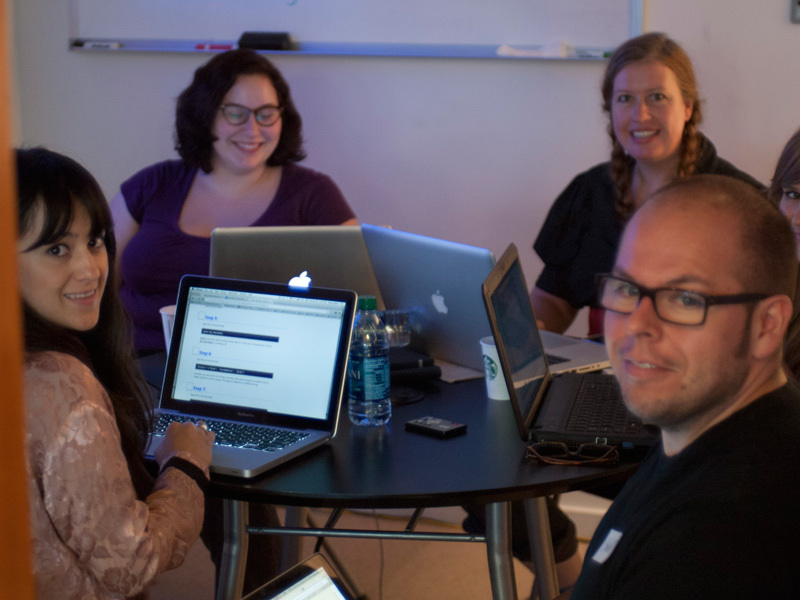
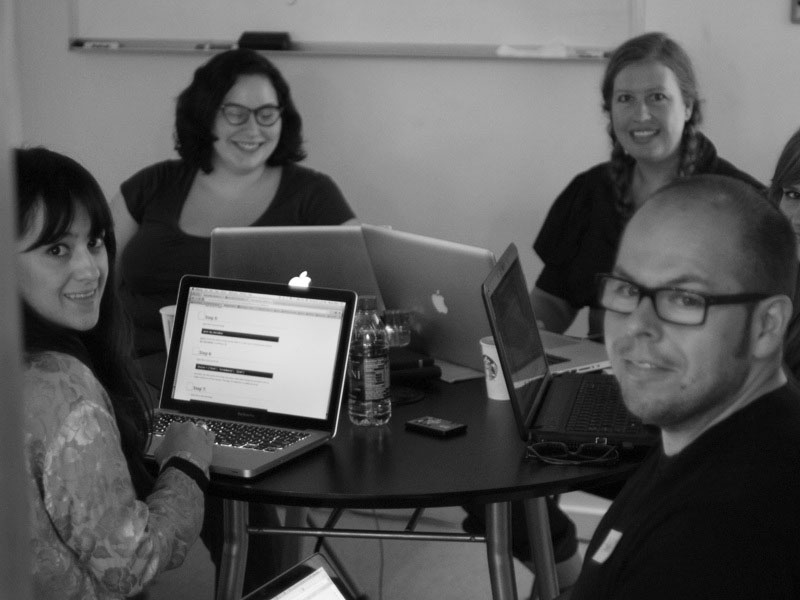
all new photography for the rails bridge site

diff --git a/app/assets/stylesheets/partials/_styles.scss b/app/assets/stylesheets/partials/_styles.scss
@@ -5,7 +5,7 @@
   position: relative;
   background-color: $grayDark;
   margin: auto;
-  padding: 20px 0 20px 30px;
+  padding: 10px 0 40px 20px;
   top: 20px;
   border-bottom-left-radius: 15px;
   border-bottom-right-radius: 15px;
@@ -189,5 +189,42 @@
 }
 .gem {
   max-width: 170%;
+}
+
+.big_border {
+  border-bottom: 10px solid $grayLight;
+  padding: 10px;
+  margin-bottom: 10px;
+}
+
+.big_border_top {
+  border-top: 10px solid $grayLight;
+  padding: 15px 0px;
+  margin-bottom: 10px;
+}
+
+h6.legal {
+  margin-left: 10px;
+}
+
+/*	image widget in footer and sidebar
+================================================== */
+ul.image-widget {
+    position: relative;
+    left: -5px;
+    margin:0;
+    padding:0;
+}
+.image-widget li {
+    float: left;
+    margin: 0 5px 10px 5px;
+    width: 50px;
+    height: 50px;
+	list-style:none;
+}
+/*sidebar image widget */
+.widget .image-widget li {
+    width: 45px;
+    height: 45px;
 }
    

diff --git a/app/assets/stylesheets/partials/_responsive-767px-max.scss b/app/assets/stylesheets/partials/_responsive-767px-max.scss
@@ -43,14 +43,25 @@
   .hero-unit h3 {
     font-size: 130%;
   }
-  .hero-unit h1 {
-  font-size: 180%;
-  }
   
   .hero-unit {
-    background-size: 100%;
-    background: url('shattered-2.png') 0 0 repeat-x;
+    background-size: 420%;
     padding: 10px 20px 40px 20px;
+  }
+  
+  .hero-unit h1 {
+  font-size: 170%;
+  }
+  
+  
+  h2 {
+  font-size: 175%;
+  line-height: 40px;
+  }
+  
+  h4 {
+  font-size: 110%;
+  line-height: 20px;
   }
   
   .canvas { 

diff --git a/app/assets/stylesheets/partials/_navbar.scss b/app/assets/stylesheets/partials/_navbar.scss
@@ -268,7 +268,7 @@
 .navbar .nav > li > a {
   float: none;
   // Vertically center the text given $navbarHeight
-  padding: (($navbarHeight - $baseLineHeight) / 2) 8px (($navbarHeight - $baseLineHeight) / 2);
+  padding: (($navbarHeight - $baseLineHeight) / 2) 6px (($navbarHeight - $baseLineHeight) / 2);
   color: $navbarLinkColor;
   text-decoration: none;
   text-shadow: 0 1px 0 $navbarBackgroundHighlight;

diff --git a/app/assets/stylesheets/partials/_hero-unit.scss b/app/assets/stylesheets/partials/_hero-unit.scss
@@ -9,7 +9,7 @@
   background: 
     $heroUnitBackground 0 0 repeat;
   background-position: top center;
-  background-size: 73%;
+  background-size: 100%;
   @include border-radius(6px);
   h1 {
     margin-bottom: 0;

diff --git a/app/assets/stylesheets/partials/_responsive-768px-979px.scss b/app/assets/stylesheets/partials/_responsive-768px-979px.scss
@@ -21,6 +21,11 @@
       *width: 30.91489%;
     }
     
+    h2 {
+    font-size: 170%;
+    line-height: 40px;
+    }
+    
 
   // No need to reset .thumbnails here since it's the same $gridGutterWidth
 

diff --git a/app/assets/stylesheets/partials/_responsive-1200px-min.scss b/app/assets/stylesheets/partials/_responsive-1200px-min.scss
@@ -24,7 +24,7 @@
   .row-fluid .thumbnails {
     margin-left: 0;
   }
-
+  
 }
 
 
